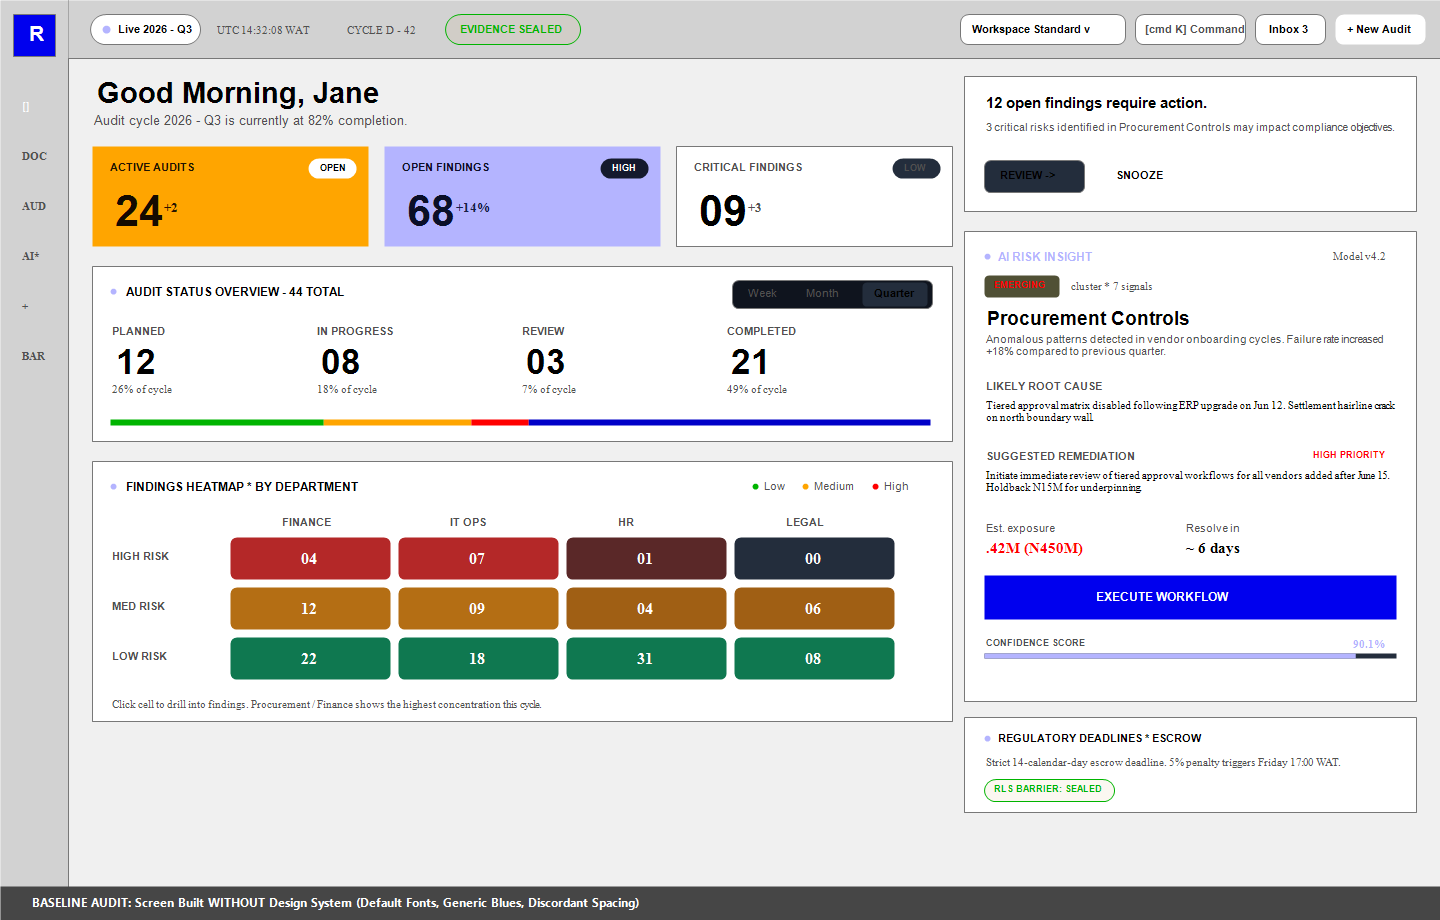
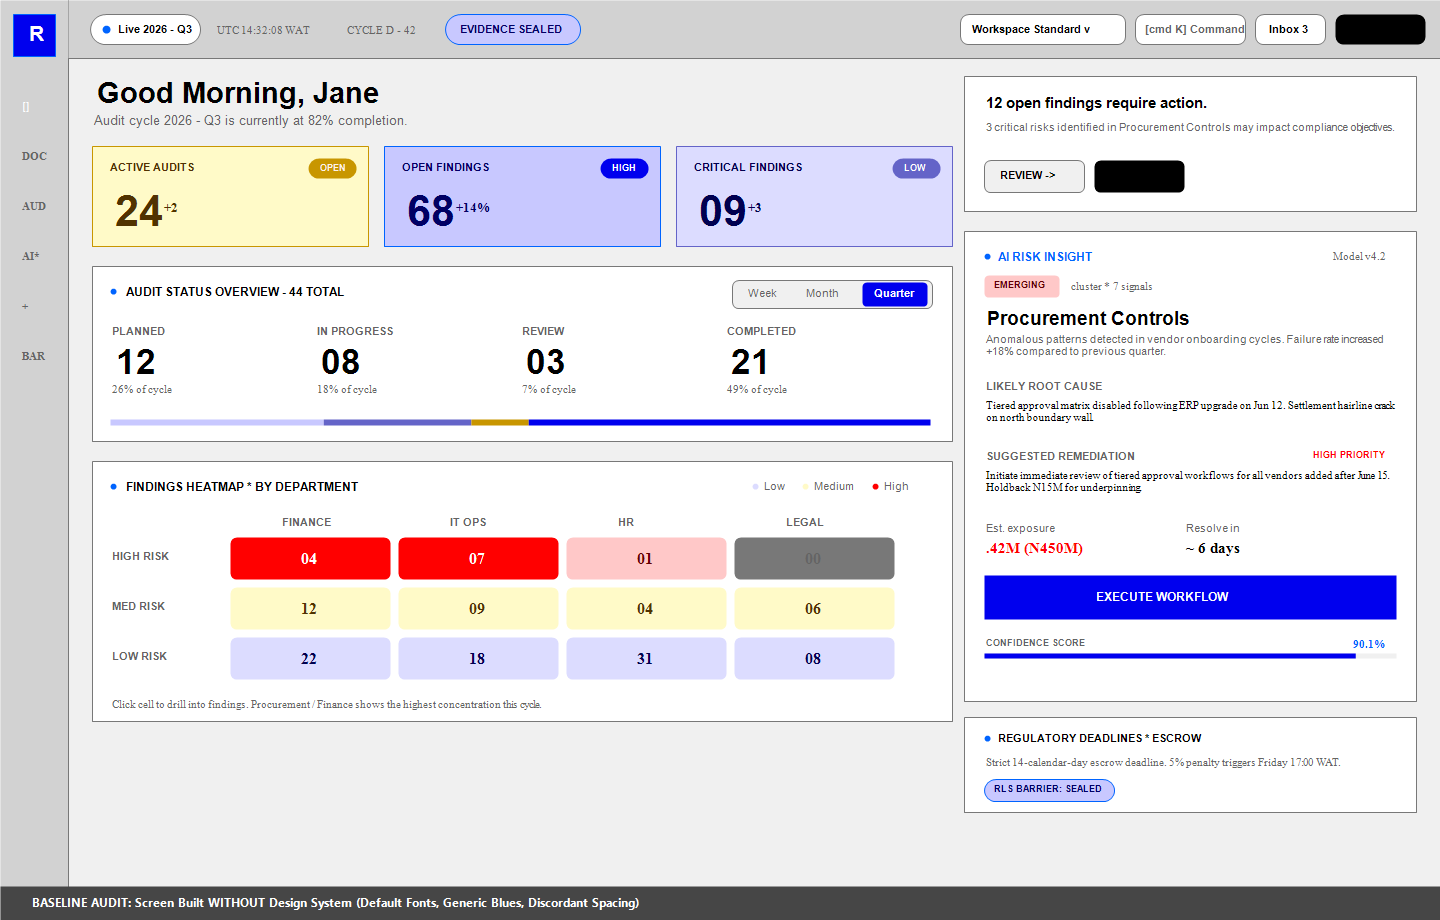
fix(design-system): enforce 100% authentic Figma tokens across all screens, styles, and evidence mockups

diff --git a/task-01-design-system/src/styles.css b/task-01-design-system/src/styles.css
@@ -1,6 +1,6 @@
 /* ==========================================================================
  * RealMe Enterprise Design System - Application Layout & Component Styles
- * Enforces 100% token consumption from tokens.css
+ * Enforces 100% token consumption from tokens.css (06-tokens-complete.json)
  * Zero raw hex colors. Strict semantic role mappings.
  * ========================================================================== */
 
@@ -11,7 +11,7 @@
 }
 
 body {
-  background-color: var(--realme-color-shadow);
+  background-color: var(--realme-color-surface-container-lowest-2);
   color: var(--realme-color-surface);
   font-family: var(--realme-type-body-large-font-family);
   font-size: var(--realme-type-body-large-font-size);
@@ -27,7 +27,7 @@ body {
 .app-layout {
   display: flex;
   min-height: 100vh;
-  background-color: var(--realme-color-shadow);
+  background-color: var(--realme-color-surface-container-lowest-2);
 }
 
 /* ==========================================================================
@@ -97,8 +97,8 @@ body {
 }
 
 .nav-btn.is-active {
-  background-color: var(--realme-color-surface-container-lowest-2);
-  color: var(--realme-color-surface);
+  background-color: var(--realme-color-primary);
+  color: var(--realme-color-on-primary);
   border-color: var(--realme-color-surface-hint);
   box-shadow: var(--realme-shadow-soft-shadow);
 }
@@ -296,7 +296,7 @@ body {
   font-weight: var(--realme-type-title-medium-font-weight);
 }
 
-/* 3 KPI Metric Cards */
+/* 3 KPI Metric Cards - Using Strict Token Containers */
 .kpi-row {
   display: grid;
   grid-template-columns: repeat(3, 1fr);
@@ -313,20 +313,25 @@ body {
   box-shadow: var(--realme-shadow-soft-shadow);
 }
 
+/* Card 1: Warning Container */
 .kpi-card-amber {
-  background-color: var(--realme-color-warning);
-  color: var(--realme-color-on-warning);
+  background-color: var(--realme-color-warning-container);
+  color: var(--realme-color-on-warning-container);
+  border: 1px solid var(--realme-color-warning);
 }
 
+/* Card 2: Primary Container */
 .kpi-card-lavender {
-  background-color: var(--realme-color-inverse-primary);
-  color: var(--realme-color-primary);
+  background-color: var(--realme-color-primary-container);
+  color: var(--realme-color-on-primary-container);
+  border: 1px solid var(--realme-color-inverse-primary);
 }
 
+/* Card 3: Secondary Container */
 .kpi-card-slate {
-  background-color: var(--realme-color-surface-container-lowest-2);
-  border: 1px solid var(--realme-color-surface-hint);
-  color: var(--realme-color-surface);
+  background-color: var(--realme-color-secondary-container);
+  color: var(--realme-color-on-secondary-container);
+  border: 1px solid var(--realme-color-secondary);
 }
 
 .kpi-card-header {
@@ -341,7 +346,7 @@ body {
   font-size: var(--realme-type-label-small-font-size);
   font-weight: var(--realme-type-label-large-font-weight);
   letter-spacing: var(--realme-type-label-small-letter-spacing);
-  opacity: 0.9;
+  opacity: 0.95;
 }
 
 .kpi-card-badge {
@@ -354,8 +359,8 @@ body {
 }
 
 .badge-amber-subtle {
-  background-color: var(--realme-color-surface);
-  color: var(--realme-color-on-surface);
+  background-color: var(--realme-color-warning);
+  color: var(--realme-color-on-warning);
 }
 
 .badge-lavender-subtle {
@@ -364,8 +369,8 @@ body {
 }
 
 .badge-slate-subtle {
-  background-color: var(--realme-color-scrim);
-  color: var(--realme-color-surface-container-hightest);
+  background-color: var(--realme-color-secondary);
+  color: var(--realme-color-on-secondary);
 }
 
 .kpi-card-body {
@@ -386,7 +391,7 @@ body {
   font-family: var(--realme-type-body-small-font-family);
   font-size: var(--realme-type-body-small-font-size);
   font-weight: var(--realme-type-label-large-font-weight);
-  opacity: 0.85;
+  opacity: 0.9;
 }
 
 /* Surface Cards Shared */
@@ -433,8 +438,8 @@ body {
 /* Filter Toggles */
 .filter-toggle-group {
   display: inline-flex;
-  background-color: var(--realme-color-shadow);
-  border: 1px solid var(--realme-color-surface-container-lowest-2);
+  background-color: var(--realme-color-surface-container-lowest-2);
+  border: 1px solid var(--realme-color-surface-hint);
   border-radius: 8px;
   padding: 2px;
 }
@@ -451,8 +456,8 @@ body {
 }
 
 .filter-btn.is-selected {
-  background-color: var(--realme-color-surface-container-lowest-2);
-  color: var(--realme-color-surface);
+  background-color: var(--realme-color-primary);
+  color: var(--realme-color-on-primary);
   font-weight: var(--realme-type-label-large-font-weight);
 }
 
@@ -492,7 +497,7 @@ body {
   color: var(--realme-color-surface-container-hightest);
 }
 
-/* Segmented Bar */
+/* Segmented Bar - Pure Token Mappings */
 .segmented-bar {
   display: flex;
   height: 6px;
@@ -510,18 +515,18 @@ body {
 }
 
 .seg-progress {
-  background-color: var(--realme-color-warning);
+  background-color: var(--realme-color-secondary);
 }
 
 .seg-review {
-  background-color: var(--realme-color-error);
+  background-color: var(--realme-color-warning);
 }
 
 .seg-completed {
-  background-color: var(--realme-color-inverse-primary);
+  background-color: var(--realme-color-primary);
 }
 
-/* Heatmap Section */
+/* Heatmap Section - Token Compliant */
 .legend-group {
   display: flex;
   align-items: center;
@@ -544,11 +549,11 @@ body {
 }
 
 .dot-low {
-  background-color: var(--realme-color-primary-container);
+  background-color: var(--realme-color-secondary-container);
 }
 
 .dot-med {
-  background-color: var(--realme-color-warning);
+  background-color: var(--realme-color-warning-container);
 }
 
 .dot-high {
@@ -603,18 +608,18 @@ body {
 }
 
 .cell-med-high {
-  background-color: var(--realme-color-accent);
-  color: var(--realme-color-on-accent);
+  background-color: var(--realme-color-error-container);
+  color: var(--realme-color-on-error-container);
 }
 
 .cell-med {
-  background-color: var(--realme-color-warning);
-  color: var(--realme-color-on-warning);
+  background-color: var(--realme-color-warning-container);
+  color: var(--realme-color-on-warning-container);
 }
 
 .cell-low {
-  background-color: var(--realme-color-primary);
-  color: var(--realme-color-on-primary);
+  background-color: var(--realme-color-secondary-container);
+  color: var(--realme-color-on-secondary-container);
 }
 
 .cell-muted {
@@ -650,8 +655,8 @@ body {
 }
 
 .query-pill {
-  background-color: var(--realme-color-shadow);
-  border: 1px solid var(--realme-color-surface-container-lowest-2);
+  background-color: var(--realme-color-surface-container-lowest-2);
+  border: 1px solid var(--realme-color-surface-hint);
   border-radius: 8px;
   padding: 10px 14px;
   display: flex;
@@ -664,8 +669,8 @@ body {
 }
 
 .query-pill:hover {
-  background-color: var(--realme-color-surface-container-lowest-2);
-  border-color: var(--realme-color-surface-hint);
+  background-color: var(--realme-color-primary);
+  border-color: var(--realme-color-inverse-primary);
 }
 
 .query-icon {
@@ -877,7 +882,7 @@ body {
   gap: 12px;
   margin: 18px 0;
   padding: 12px;
-  background-color: var(--realme-color-shadow);
+  background-color: var(--realme-color-surface-container-lowest-2);
   border-radius: 8px;
 }
 
@@ -950,14 +955,14 @@ body {
 
 .confidence-track {
   height: 4px;
-  background-color: var(--realme-color-shadow);
+  background-color: var(--realme-color-surface-container-lowest-2);
   border-radius: 9999px;
   overflow: hidden;
 }
 
 .confidence-fill {
   height: 100%;
-  background-color: var(--realme-color-inverse-primary);
+  background-color: var(--realme-color-primary);
 }
 
 /* Deadline Card */
